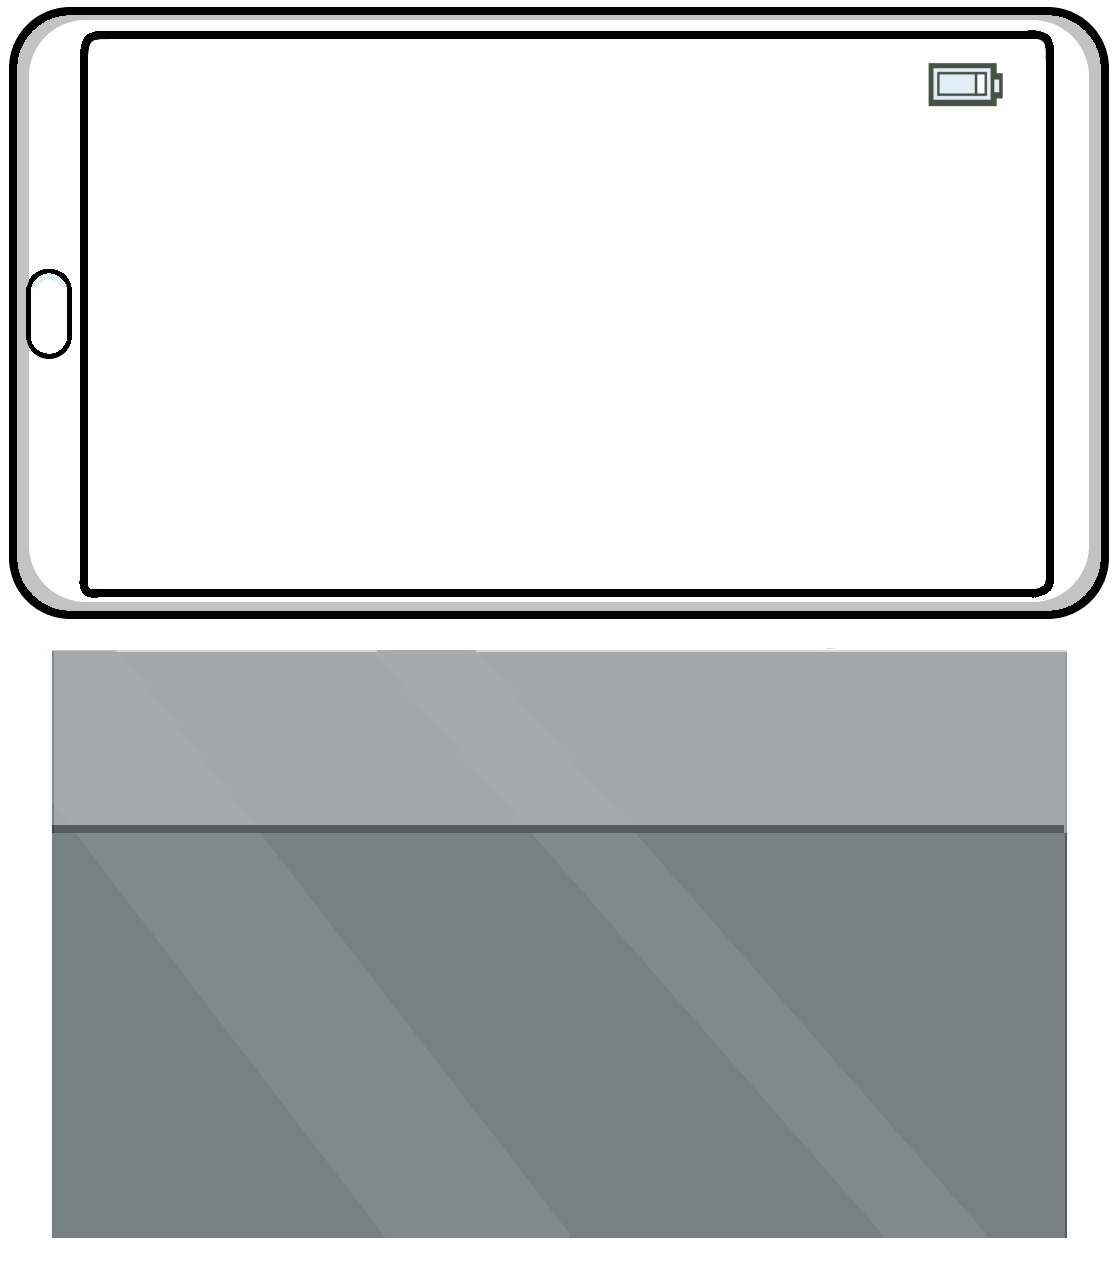
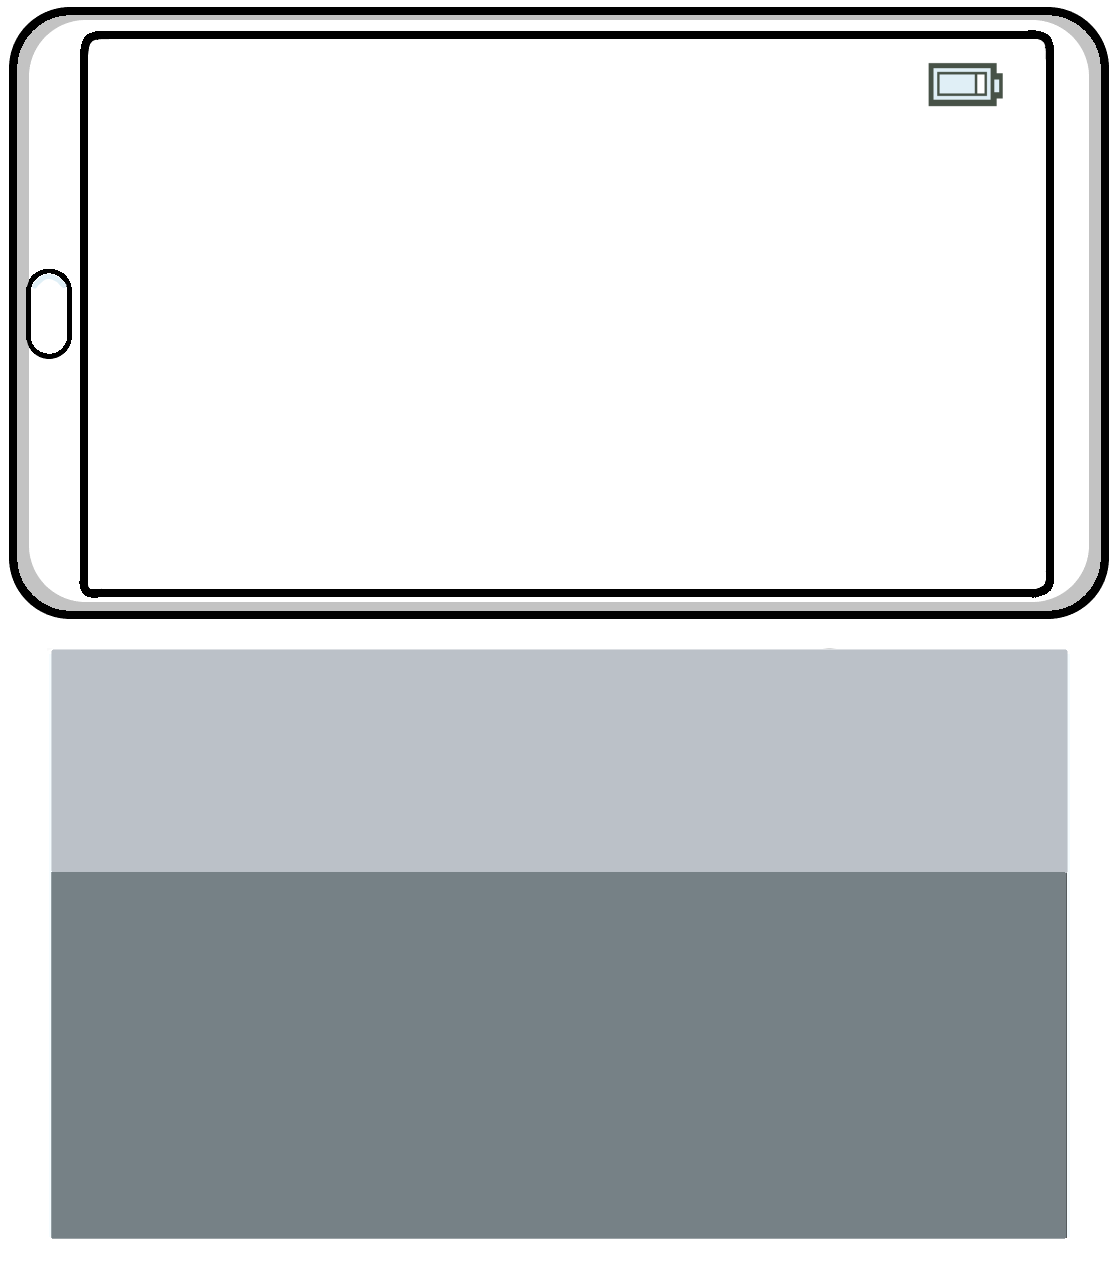
tooltip positions and sizes

Changed region(s): [[0.0304, 0.4913, 0.974, 0.7063]]

diff --git a/DoomScroll/FolderManager.cs b/DoomScroll/FolderManager.cs
@@ -34,6 +34,7 @@ namespace Doom_Scroll
         private Tooltip m_tasksTooltip;
         private Tooltip m_postsTooltip;
         private Tooltip m_screenshotsTooltip;
+        private Tooltip m_sourcesTooltip;
         private Tooltip m_taskFolderTooltip;
         private Tooltip m_postFolderTooltip;
         private Tooltip m_postFolderVotingTooltip;
@@ -169,11 +170,11 @@ namespace Doom_Scroll
             m_folderArea.CloseButton.ButtonEvent.MyAction += CloseFolder;
 
             // Tooltip in-folder setup
-            m_screenshotFolderTooltip = new Tooltip(m_pathText.UIGameObject, "InsideScreenshotsFolder", "Notice any clues? How can you use these\nphotos in your arguments?", 0.4f, 7.5f, new Vector3(0, -0.4f, 0), 1.5f);
-            m_taskFolderTooltip = new Tooltip(m_pathText.UIGameObject, "InsideTasksFolder", "Who is doing their tasks? Who isn't? Think about this how this\ninformation might reflect on each player's reliability", 6f, 7f, new Vector3(0, -0.3f, 0), 1.5f);
-            m_postFolderTooltip = new Tooltip(m_pathText.UIGameObject, "InsidePostsFolder", "True posts can give vital clues about other players, but some\nposts might be misleading! Can you tell the difference? How?", .65f, 6f, new Vector3(0, -0.3f, 0), 1.5f);
-            m_postFolderVotingTooltip = new Tooltip(m_pathText.UIGameObject, "InsidePostsVoting", "Discuss whether you think each post is TRUSTWORTHY or not.\nALL Crewmates must achieve 100% accuracy to complete the final task.", 0.5f, 9.7f, new Vector3(0, -4.0f, 0), 1.5f);
-            m_HeadlinesTooltip = new Tooltip(m_pathText.UIGameObject, "InsidePostsFolder", "FAKE NEWS:\r\nEmotional/polarizing\r\nHyperbolic\r\nPartisan/biased\r\nMany claims at once\r\nMisleading data\r\nConspiracy theories\r\nTrolling\r\nAttacks opponents\n\nBAD SOURCES:\r\nImpersonators\r\nMisleading domains\r\nUnreliable sponsors\n(blogs, forums)", 3f, 0.29f, new Vector3(-3.5f, -2.3f, 0), 1.4f);
+            m_screenshotFolderTooltip = new Tooltip(m_pathText.UIGameObject, "InsideScreenshotsFolder", "Notice any clues? How can you use these\nphotos in your arguments?", 0.4f, 7.5f, new Vector3(0, -0.4f, 0), 1.3f);
+            m_taskFolderTooltip = new Tooltip(m_pathText.UIGameObject, "InsideTasksFolder", "Who is doing their tasks? Who isn't? Think about this how this\ninformation might reflect on each player's reliability", 6f, 7f, new Vector3(0, -0.3f, 0), 1.3f);
+            m_postFolderTooltip = new Tooltip(m_pathText.UIGameObject, "InsidePostsFolder", "True posts can give vital clues about other players, but some\nposts might be misleading! Can you tell the difference? How?", .65f, 6f, new Vector3(0, -0.3f, 0), 1.3f);
+            m_postFolderVotingTooltip = new Tooltip(m_pathText.UIGameObject, "InsidePostsVoting", "Discuss whether you think each post is TRUSTWORTHY or not.\nALL Crewmates must achieve 100% accuracy to complete the final task.", 0.65f, 7f, new Vector3(0, -1.95f, 0), 1.3f);
+            m_HeadlinesTooltip = new Tooltip(m_pathText.UIGameObject, "InsidePostsFolder", "FAKE NEWS:\r\nEmotional/polarizing\r\nHyperbolic\r\nPartisan/biased\r\nMany claims at once\r\nMisleading data\r\nConspiracy theories\r\nTrolling\r\nAttacks opponents\n\nBAD SOURCES:\r\nImpersonators\r\nMisleading domains\r\nUnreliable sponsors\n(blogs, forums)", 4.5f, 0.25f, new Vector3(-3.6f, -0.85f, 0), 1.1f);
             m_HeadlinesTooltip.ImageObject.SetSize(new Vector2(1.5f, 3f));
             m_taskFolderTooltip.ImageObject.SetSize(new Vector2(4.2f, .36f));
             m_postFolderTooltip.ImageObject.SetSize(new Vector2(4.4f, .36f));
@@ -192,12 +193,14 @@ namespace Doom_Scroll
             Sources = new SourceDisplay(m_folderArea);
             m_root = new Folder("", "Home", m_folderArea);
             m_screenshots = new Folder(m_root.Path, "Images", m_folderArea);
-            m_screenshotsTooltip = new Tooltip(m_screenshots.Dir, "ScreenshotsFolderBtn", "Your photos will\nshow up here.", 0.5f, 3f, new Vector3(0, -1f, 0), 2f);
+            m_screenshotsTooltip = new Tooltip(m_screenshots.Btn.UIGameObject, "ScreenshotsFolderBtn", "Your photos will\nshow up here.", 0.4f, 2.8f, new Vector3(0, 0.79f, 0), 1.5f);
             m_tasks = new FileText(m_root.Path, "Tasks", m_folderArea, FileTextType.TASKS);
-            m_tasksTooltip = new Tooltip(m_tasks.Dir, "TasksFolderBtn", "Your task sign-ins will\nshow up here.", 0.5f, 4f, new Vector3(0, -1f, 0), 2f);
+            m_tasksTooltip = new Tooltip(m_tasks.Btn.UIGameObject, "TasksFolderBtn", "Your task sign-ins will\nshow up here.", 0.4f, 3.8f, new Vector3(0, 0.79f, 0), 1.5f);
             m_posts = new FileText(m_root.Path, "Headlines", m_folderArea, FileTextType.NEWS);
-            m_postsTooltip = new Tooltip(m_posts.Dir, "PostsFolderBtn", "Your headlines will\nshow up here.", 0.5f, 3.5f, new Vector3(0, -1f, 0), 2f);
+            m_postsTooltip = new Tooltip(m_posts.Btn.UIGameObject, "PostsFolderBtn", "Your headlines will\nshow up here.", 0.4f, 3.3f, new Vector3(0, 0.79f, 0), 1.5f);
             m_sources = new FileText(m_root.Path, "Sources", m_folderArea, FileTextType.SOURCES);
+            m_sourcesTooltip = new Tooltip(m_sources.Btn.UIGameObject, "SourcesFolderBtn", "Invetigate the\nheadline sources.", 0.4f, 3.3f, new Vector3(0, 0.79f, 0), 1.5f);
+
             m_root.AddItem(m_screenshots);
             m_root.AddItem(m_tasks);
             m_root.AddItem(m_posts);
